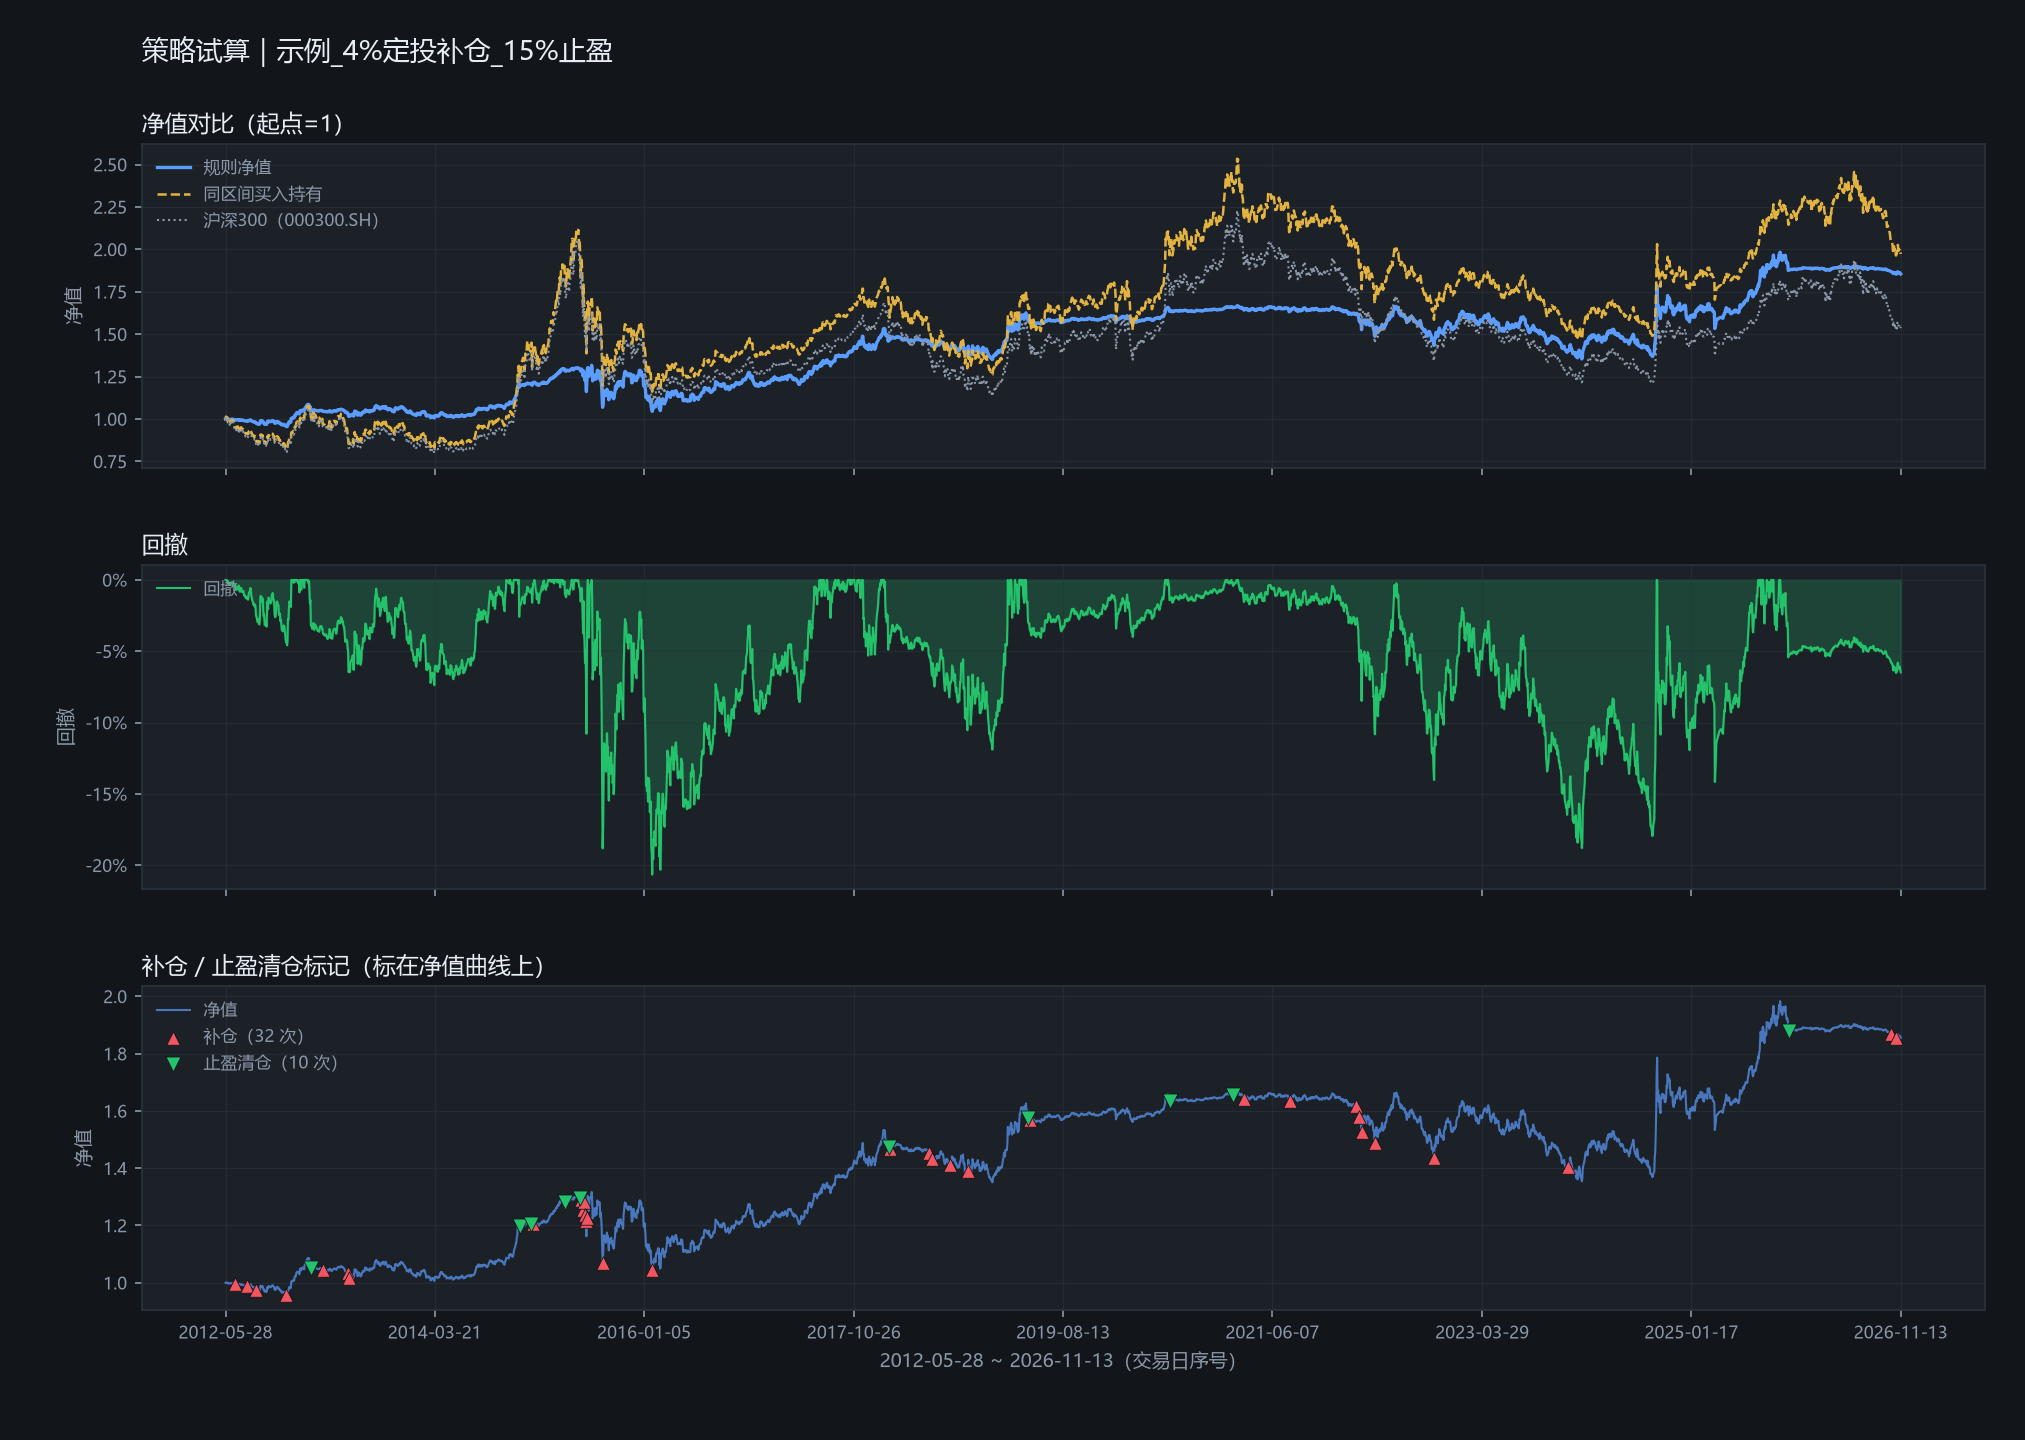
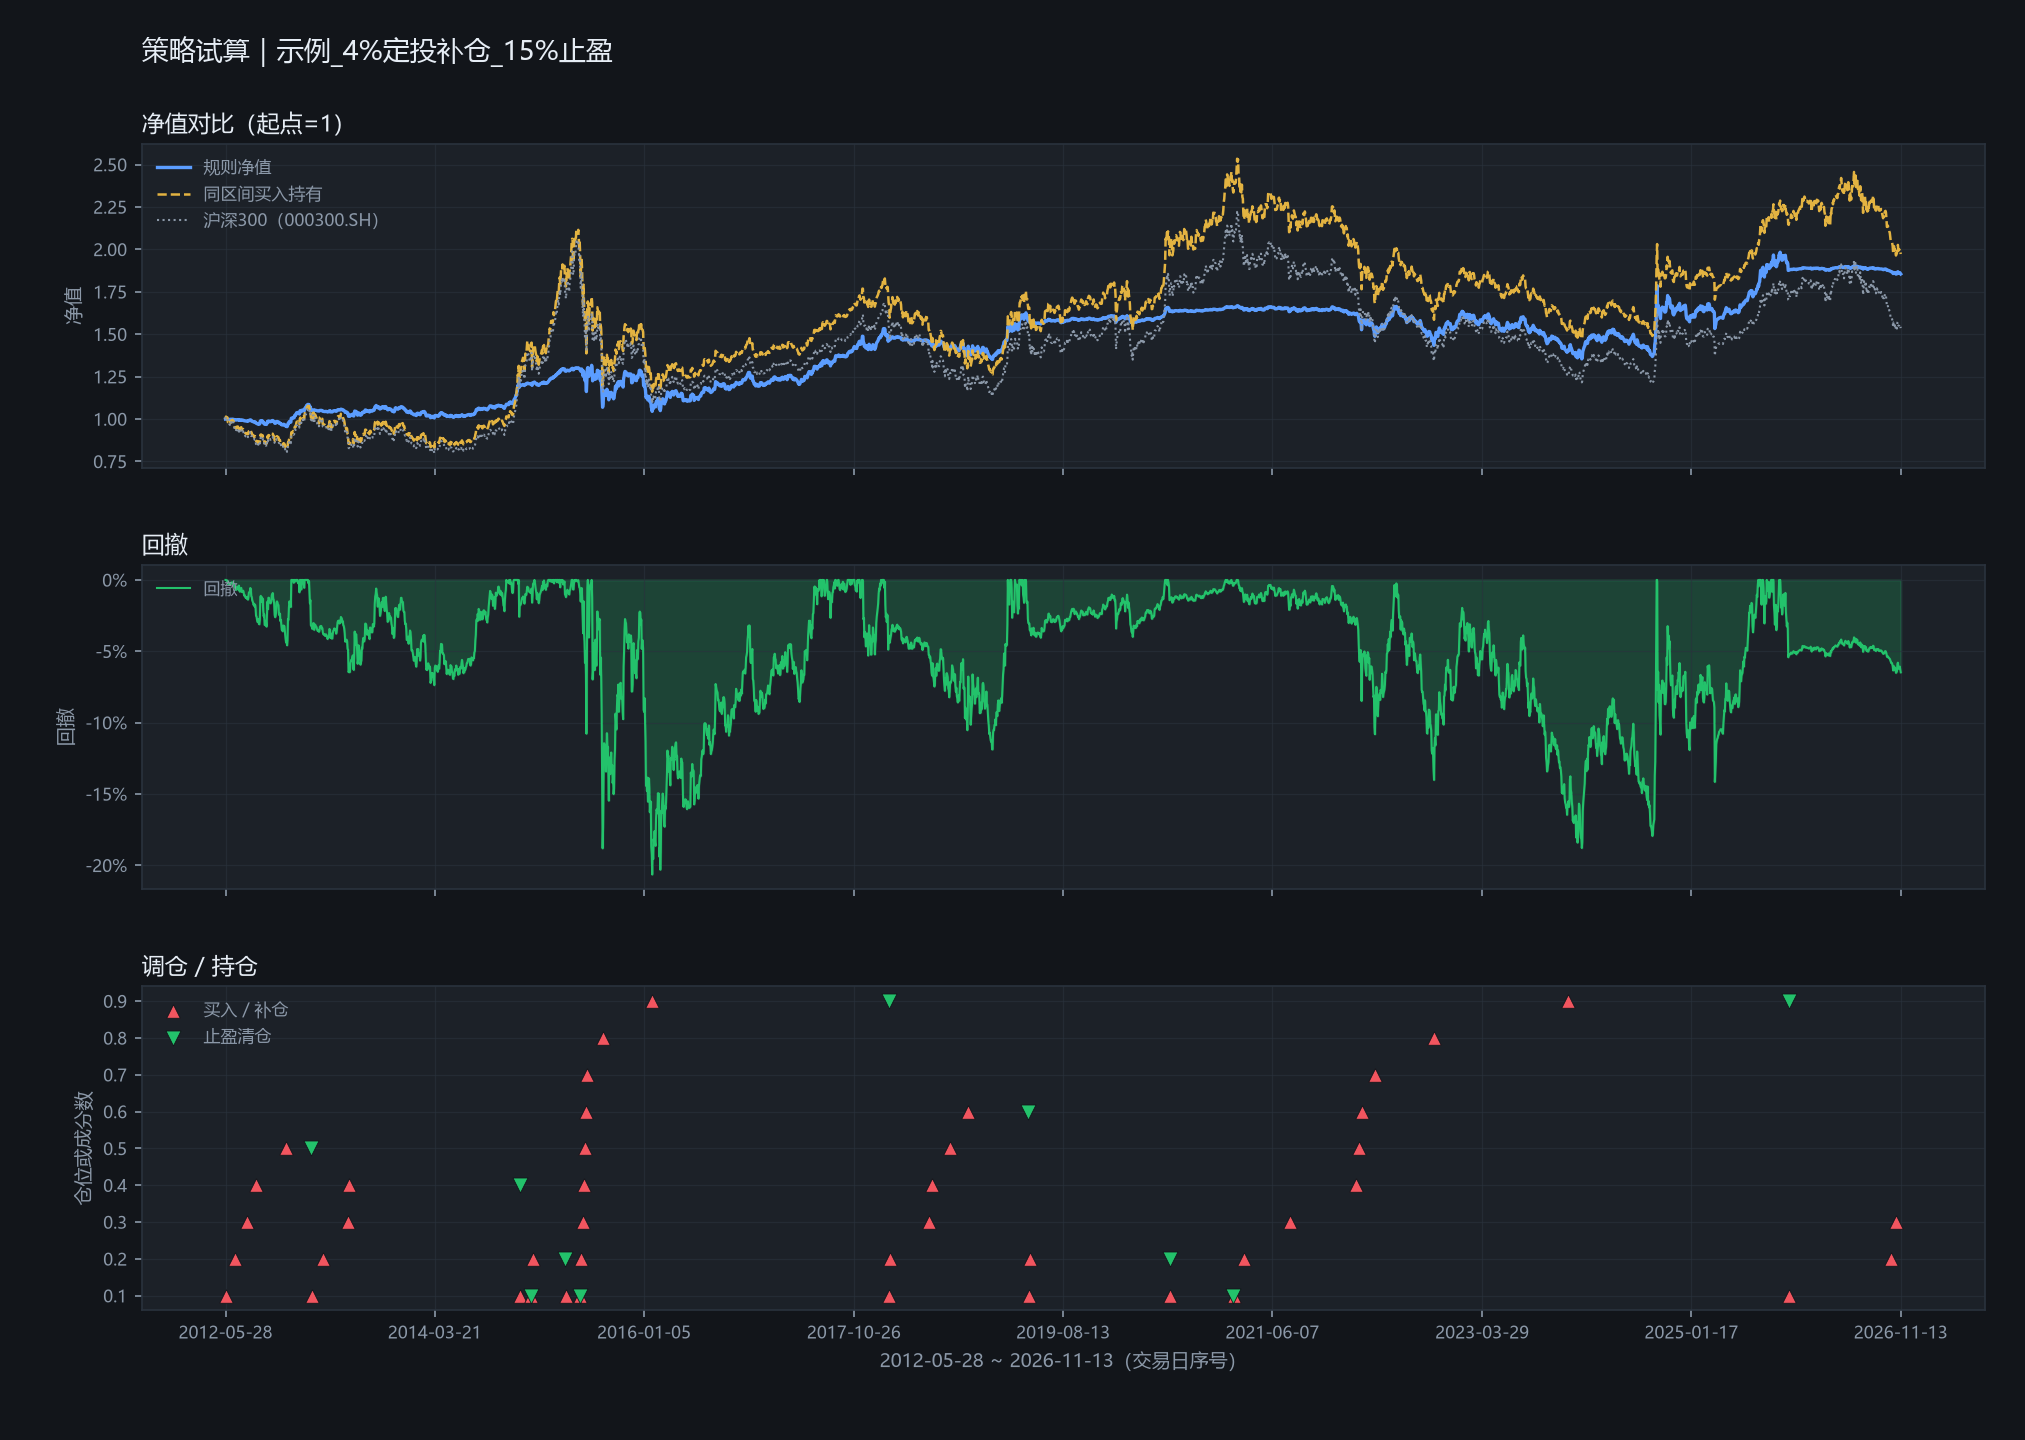
chore(backup): 2026-11-18，同步策略试算调仓标记方向判定统一与两张回测图 fix(charts): 2026-11-18，新增 strategy_lab/markers.py 共用方向判定，charts.py 与 page.py 的调仓 / 持仓图同口径 fix(charts): 2026-11-18，重跑两条定投规则出图，标记配色与形状与页面一致

diff --git a/src/quant/strategy_lab/charts.py b/src/quant/strategy_lab/charts.py
@@ -25,6 +25,7 @@ import matplotlib.pyplot as plt  # noqa: E402
 from matplotlib.ticker import FuncFormatter  # noqa: E402
 
 from .backtest import run_rule  # noqa: E402
+from .markers import marker_side  # noqa: E402
 from .rules import load_rule, rule_text  # noqa: E402
 
 #: 与试算页同一套深色主题色板（src/ui/advice/tokens.py::DARK）
@@ -45,6 +46,8 @@ def _style_axes(ax: Any, title: str, ylabel: str) -> None:
     for spine in ax.spines.values():
         spine.set_color(PALETTE['border'])
     ax.tick_params(colors=PALETTE['muted'], labelsize=8)
+    if not ax.get_legend_handles_labels()[0]:
+        return
     legend = ax.legend(loc='upper left', fontsize=8, frameon=False)
     for text in legend.get_texts():
         text.set_color(PALETTE['muted'])
@@ -57,19 +60,25 @@ def _normalized(curve: List[List[Any]]) -> List[float]:
     return [float(value) / base for _, value in curve]
 
 
-def _markers_by_reason(markers: List[Dict[str, Any]], nav_index: Dict[str, int],
-                       nav_value: List[float]) -> Dict[str, tuple[List[int], List[float]]]:
+def _marker_groups(markers: List[Dict[str, Any]],
+                   nav_index: Dict[str, int]) -> Dict[str, tuple[List[int], List[float]]]:
+    """按共用方向判定（``markers.marker_side``）分组，纵轴取仓位或成分数。"""
     groups: Dict[str, tuple[List[int], List[float]]] = {
-        'add': ([], []), 'take_profit': ([], [])}
-    for marker in markers:
-        reason = marker.get('reason')
-        kind = 'take_profit' if reason == 'take_profit' else (
-            'add' if reason == 'add' else None)
+        'buy': ([], []), 'sell': ([], []), 'neutral': ([], [])}
+    prev_position = 0.0
+    for marker in sorted(markers,
+                         key=lambda m: nav_index.get(str(m.get('date')), -1)):
         x = nav_index.get(str(marker.get('date')))
-        if kind is None or x is None:
+        if x is None:
             continue
+        side, prev_position = marker_side(marker, prev_position)
+        if marker.get('members') is not None:
+            y = float(marker['members'])
+        else:
+            y = float(marker.get('position') or 1.0)
+        kind = side or 'neutral'
         groups[kind][0].append(x)
-        groups[kind][1].append(nav_value[x])
+        groups[kind][1].append(y)
     return groups
 
 
@@ -113,21 +122,23 @@ def render(payload: Dict[str, Any], rule: Dict[str, Any], out_path: Path) -> Pat
     _style_axes(ax, '回撤', '回撤')
 
     ax = axes[2]
-    ax.plot(range(len(nav_value)), nav_value, color=PALETTE['accent'],
-            linewidth=1.0, alpha=0.7, label='净值')
-    groups = _markers_by_reason(payload.get('markers') or [],
-                                {day: i for i, day in enumerate(dates)}, nav_value)
-    add_x, add_y = groups['add']
-    exit_x, exit_y = groups['take_profit']
-    if add_x:
-        ax.scatter(add_x, add_y, marker='^', s=42, color=PALETTE['buy'],
+    groups = _marker_groups(payload.get('markers') or [],
+                            {day: i for i, day in enumerate(dates)})
+    neutral_x, neutral_y = groups['neutral']
+    buy_x, buy_y = groups['buy']
+    exit_x, exit_y = groups['sell']
+    if neutral_x:
+        ax.scatter(neutral_x, neutral_y, marker='o', s=18, color=PALETTE['hold'],
+                   edgecolors=PALETTE['bg'], linewidths=0.4, zorder=3)
+    if buy_x:
+        ax.scatter(buy_x, buy_y, marker='^', s=42, color=PALETTE['buy'],
                    edgecolors=PALETTE['bg'], linewidths=0.4,
-                   label=f'补仓（{len(add_x)} 次）', zorder=3)
+                   label='买入 / 补仓', zorder=4)
     if exit_x:
         ax.scatter(exit_x, exit_y, marker='v', s=52, color=PALETTE['sell'],
                    edgecolors=PALETTE['bg'], linewidths=0.4,
-                   label=f'止盈清仓（{len(exit_x)} 次）', zorder=4)
-    _style_axes(ax, '补仓 / 止盈清仓标记（标在净值曲线上）', '净值')
+                   label='止盈清仓', zorder=5)
+    _style_axes(ax, '调仓 / 持仓', '仓位或成分数')
 
     ticks = sorted(set([int(len(dates) * i / _TICKS) for i in range(_TICKS)]
                        + [len(dates) - 1]))

diff --git a/src/quant/strategy_lab/markers.py b/src/quant/strategy_lab/markers.py
@@ -1,0 +1,40 @@
+"""调仓标记的方向判定：离线出图与试算页共用同一套口径。
+
+方向只有三档，判定只在这里实现一次（``src/quant/strategy_lab/charts.py`` 的
+「调仓 / 持仓」面板与 ``src/ui/strategy_lab/page.py`` 的 ``_plot_markers`` 都调
+:func:`marker_side`，不在两边各写一份）：
+
+- 有 ``reason``：``take_profit`` 判卖出（绿色下三角）；``initial`` / ``restart``
+  / ``add`` 判买入（红色上三角）——首次建仓、清仓后重启与补仓同属买入；
+- 没有可判定的 ``reason``、但带 ``position``（仓位择时 / 强弱比切换）：与上一笔
+  仓位比较，上升算买入、下降算卖出，持平视为无方向（中性圆点）；
+- 既无 ``reason`` 也无 ``position``（选股规则的成分变动）：无方向（中性圆点）。
+
+``prev_position`` 只被带 ``position`` 的标记更新，调用方按日期顺序推进；
+日期不在净值轴上的标记由调用方在调用前跳过，不参与推进。
+"""
+from __future__ import annotations
+
+from typing import Any, Dict, Tuple
+
+#: 判为买入的 reason：首次建仓 / 清仓后重启 / 补仓
+BUY_REASONS = ('initial', 'restart', 'add')
+#: 判为卖出的 reason：止盈清仓
+SELL_REASONS = ('take_profit',)
+
+
+def marker_side(marker: Dict[str, Any],
+                prev_position: float = 0.0) -> Tuple[str | None, float]:
+    """返回 ``(方向, 更新后的上一笔仓位)``；方向为 ``'buy'`` / ``'sell'`` / ``None``。"""
+    reason = marker.get('reason')
+    position = marker.get('position')
+    if reason in SELL_REASONS:
+        side = 'sell'
+    elif reason in BUY_REASONS:
+        side = 'buy'
+    elif position is not None:
+        delta = float(position) - float(prev_position)
+        side = 'buy' if delta > 0 else ('sell' if delta < 0 else None)
+    else:
+        side = None
+    return side, (float(position) if position is not None else prev_position)

diff --git a/src/ui/strategy_lab/page.py b/src/ui/strategy_lab/page.py
@@ -33,6 +33,7 @@ from PySide6.QtWidgets import (
     QWidget,
 )
 
+from src.quant.strategy_lab.markers import marker_side
 from src.quant.strategy_lab.rules import (
     RULE_TYPES,
     RuleError,
@@ -677,20 +678,8 @@ class StrategyLabPage(QWidget):
                 y = float(marker['members'])
             else:
                 y = float(position or 1.0)
-            reason = marker.get('reason')
-            if reason == 'take_profit':
-                kind = 'sell'
-            elif reason in ('initial', 'add'):
-                kind = 'buy'
-            elif position is not None:
-                # 择时 / 切换规则没有 reason，只给仓位：按与上一笔的仓位变化定方向，
-                # 上升算加仓、下降算减仓或清仓
-                delta = float(position) - prev_position
-                kind = 'buy' if delta > 0 else ('sell' if delta < 0 else None)
-            else:
-                kind = None
-            if position is not None:
-                prev_position = float(position)
+            # 方向判定与离线出图共用 markers.marker_side，不在这里各写一份
+            kind, prev_position = marker_side(marker, prev_position)
             if kind == 'buy':
                 buy_x.append(x)
                 buy_y.append(y)
